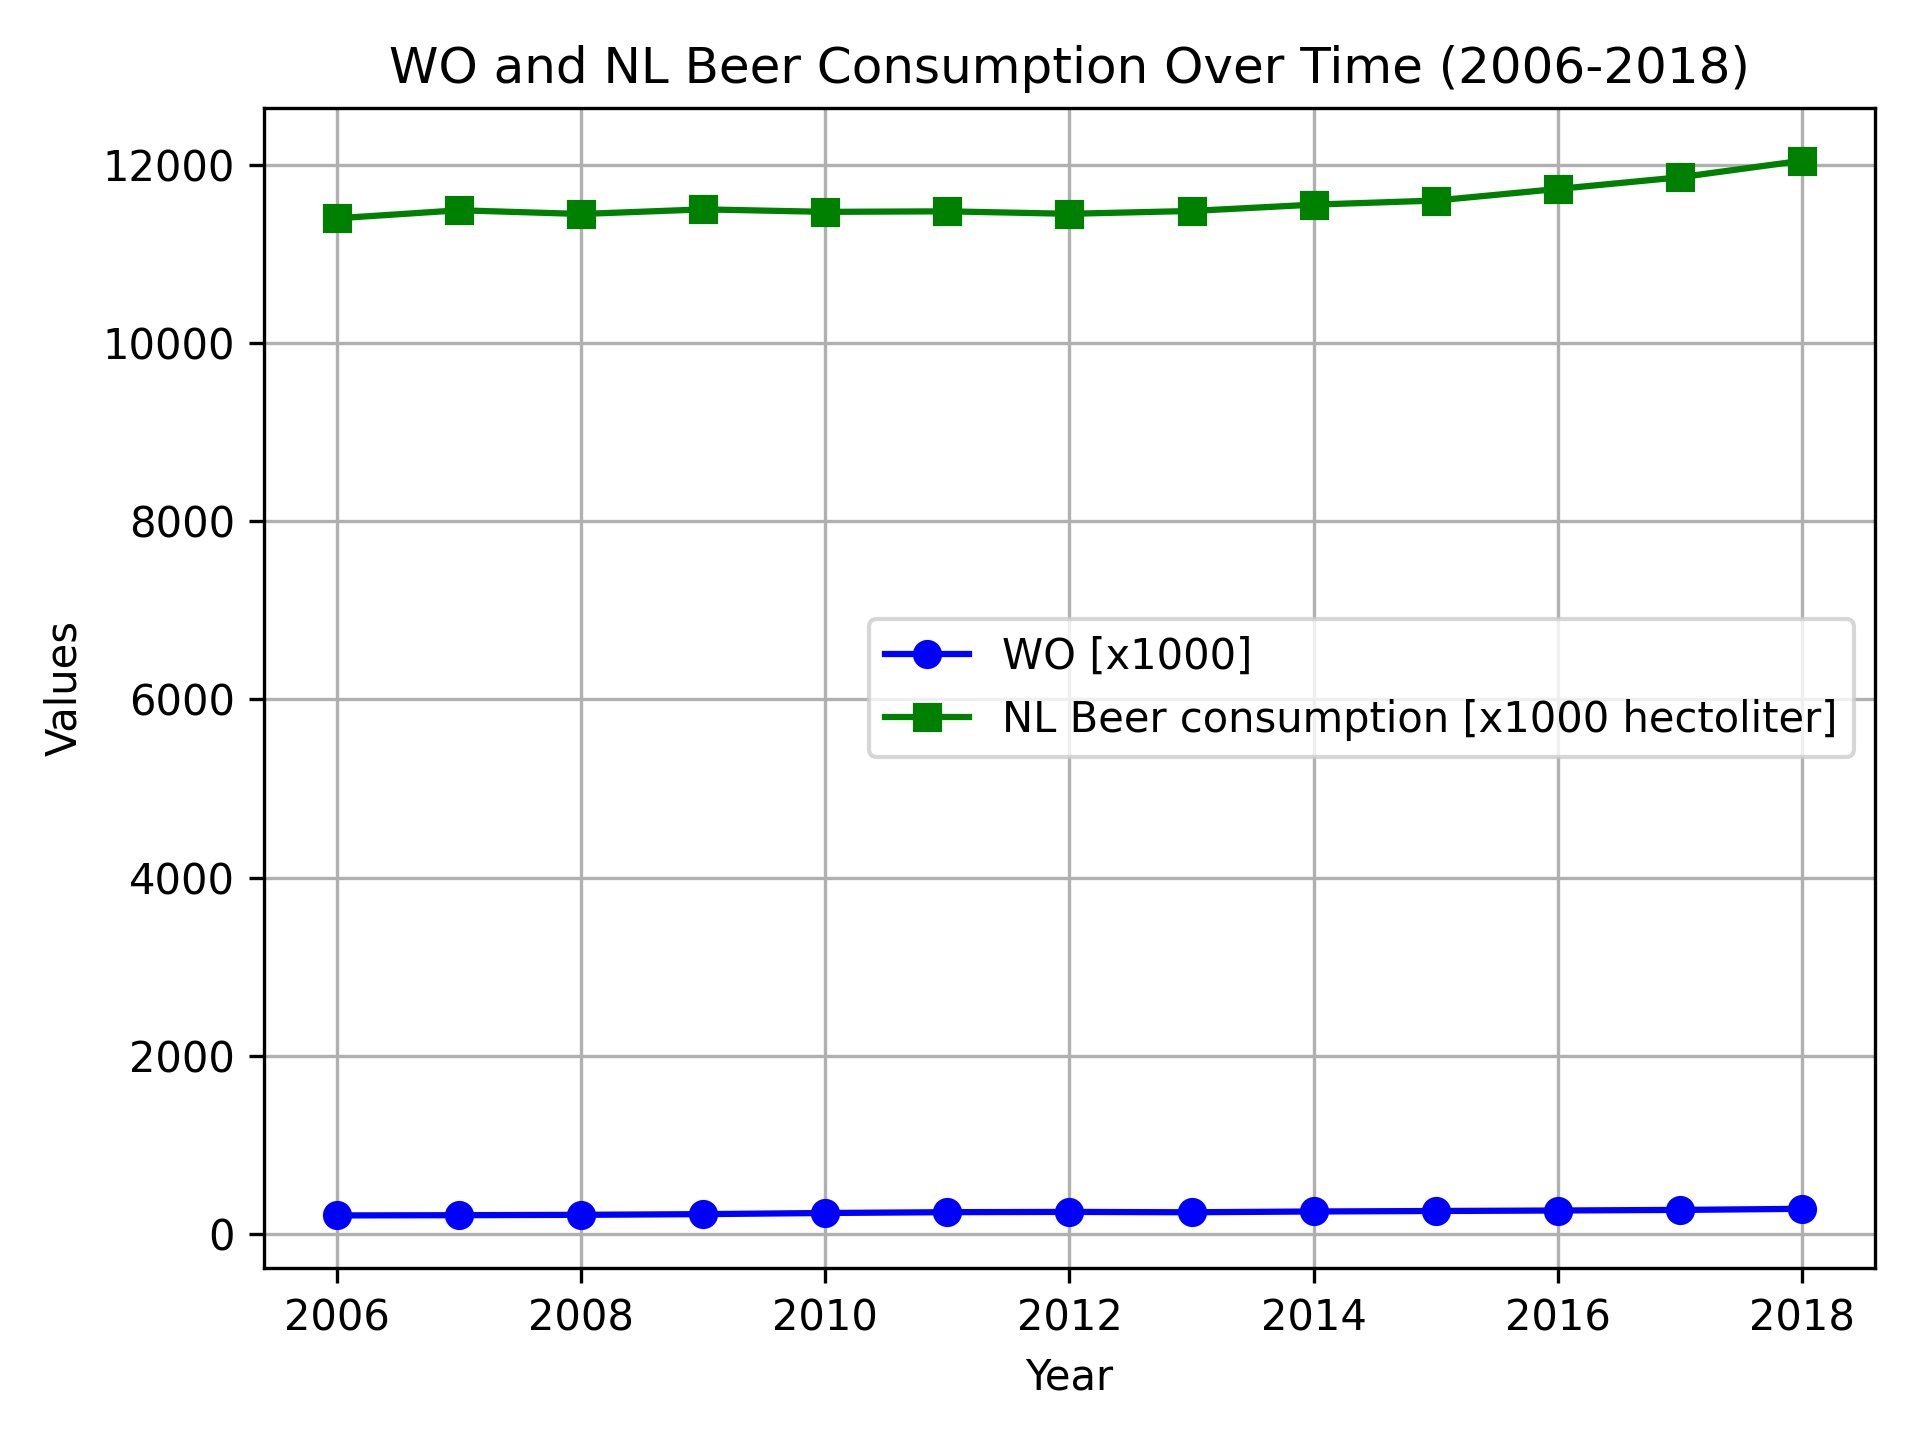
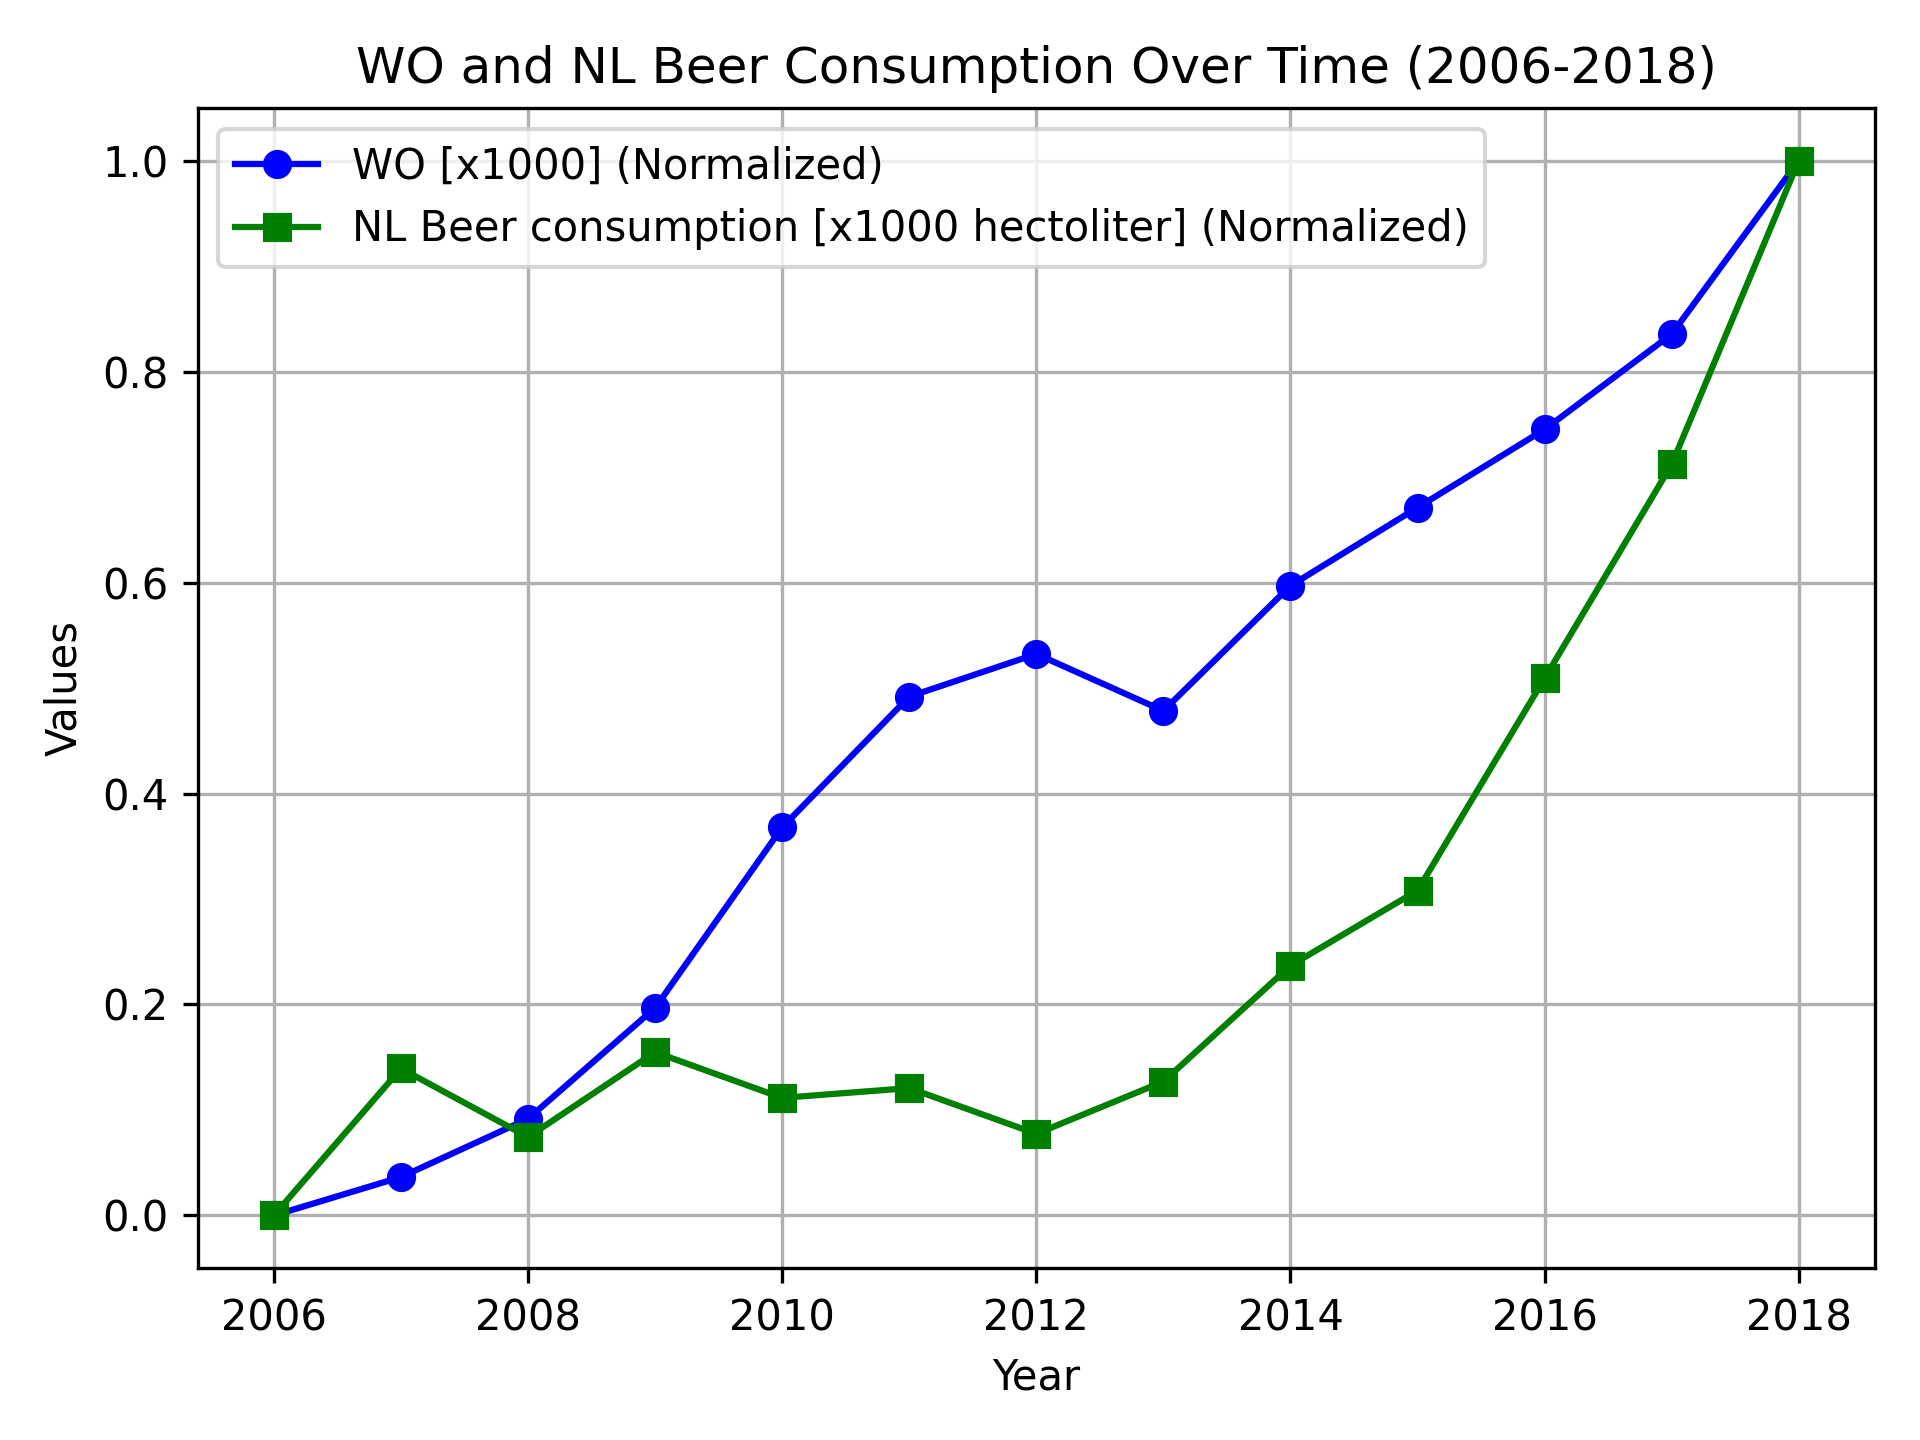
made changes to the plot

diff --git a/visualize.py b/visualize.py
@@ -1,15 +1,18 @@
 import pandas as pd
 import matplotlib.pyplot as plt
 
-
-
 csv_file_path = "./istherecorrelation.csv"
 df_from_csv = pd.read_csv(csv_file_path, sep=';', decimal=',')
 
+df_from_csv['WO [x1000]'] = pd.to_numeric(df_from_csv['WO [x1000]'], errors='coerce')
+df_from_csv['NL Beer consumption [x1000 hectoliter]'] = pd.to_numeric(df_from_csv['NL Beer consumption [x1000 hectoliter]'], errors='coerce')
+
+df_from_csv['WO_normalized'] = (df_from_csv['WO [x1000]'] - df_from_csv['WO [x1000]'].min()) / (df_from_csv['WO [x1000]'].max() - df_from_csv['WO [x1000]'].min())
+df_from_csv['Beer_normalized'] = (df_from_csv['NL Beer consumption [x1000 hectoliter]'] - df_from_csv['NL Beer consumption [x1000 hectoliter]'].min()) / (df_from_csv['NL Beer consumption [x1000 hectoliter]'].max() - df_from_csv['NL Beer consumption [x1000 hectoliter]'].min())
 
 plt.figure(dpi=300)
-plt.plot(df_from_csv["Year"], df_from_csv["WO [x1000]"], label="WO [x1000]", color="blue", marker="o")
-plt.plot(df_from_csv["Year"], df_from_csv["NL Beer consumption [x1000 hectoliter]"], label="NL Beer consumption [x1000 hectoliter]", color="green", marker="s")
+plt.plot(df_from_csv["Year"], df_from_csv["WO_normalized"], label="WO [x1000] (Normalized)", color="blue", marker="o")
+plt.plot(df_from_csv["Year"], df_from_csv["Beer_normalized"], label="NL Beer consumption [x1000 hectoliter] (Normalized)", color="green", marker="s")
 
 
 plt.xlabel("Year")

diff --git a/solution_.md b/solution_.md
@@ -5,4 +5,4 @@
 
 ![WO and Beer consumption plot](./WO_Beer_Consumption_Plot.png)
 
-From the plot we can see that even though the WO(higher education population) is increasing steadily over the time period 2006-2018, the beer consumption in the Netherlands remains almost constant with very slight fluctuations. There appears to be no correlation between the rise in higher education and beer consumption during that time period. 
+The blue line representing people with higher education has been increasing steadily for the whole time period 2006-2018. In contrast, the green line depicting beer consumption in the Netherlands is more variable. Some fluctuations are evident between 2006 and 2013, but after 2014 it has an upward trend. The two lines suggest that while both metrics rise overall, the beer consumption trend lags slightly behind the WO increase in terms of growth consistency.
